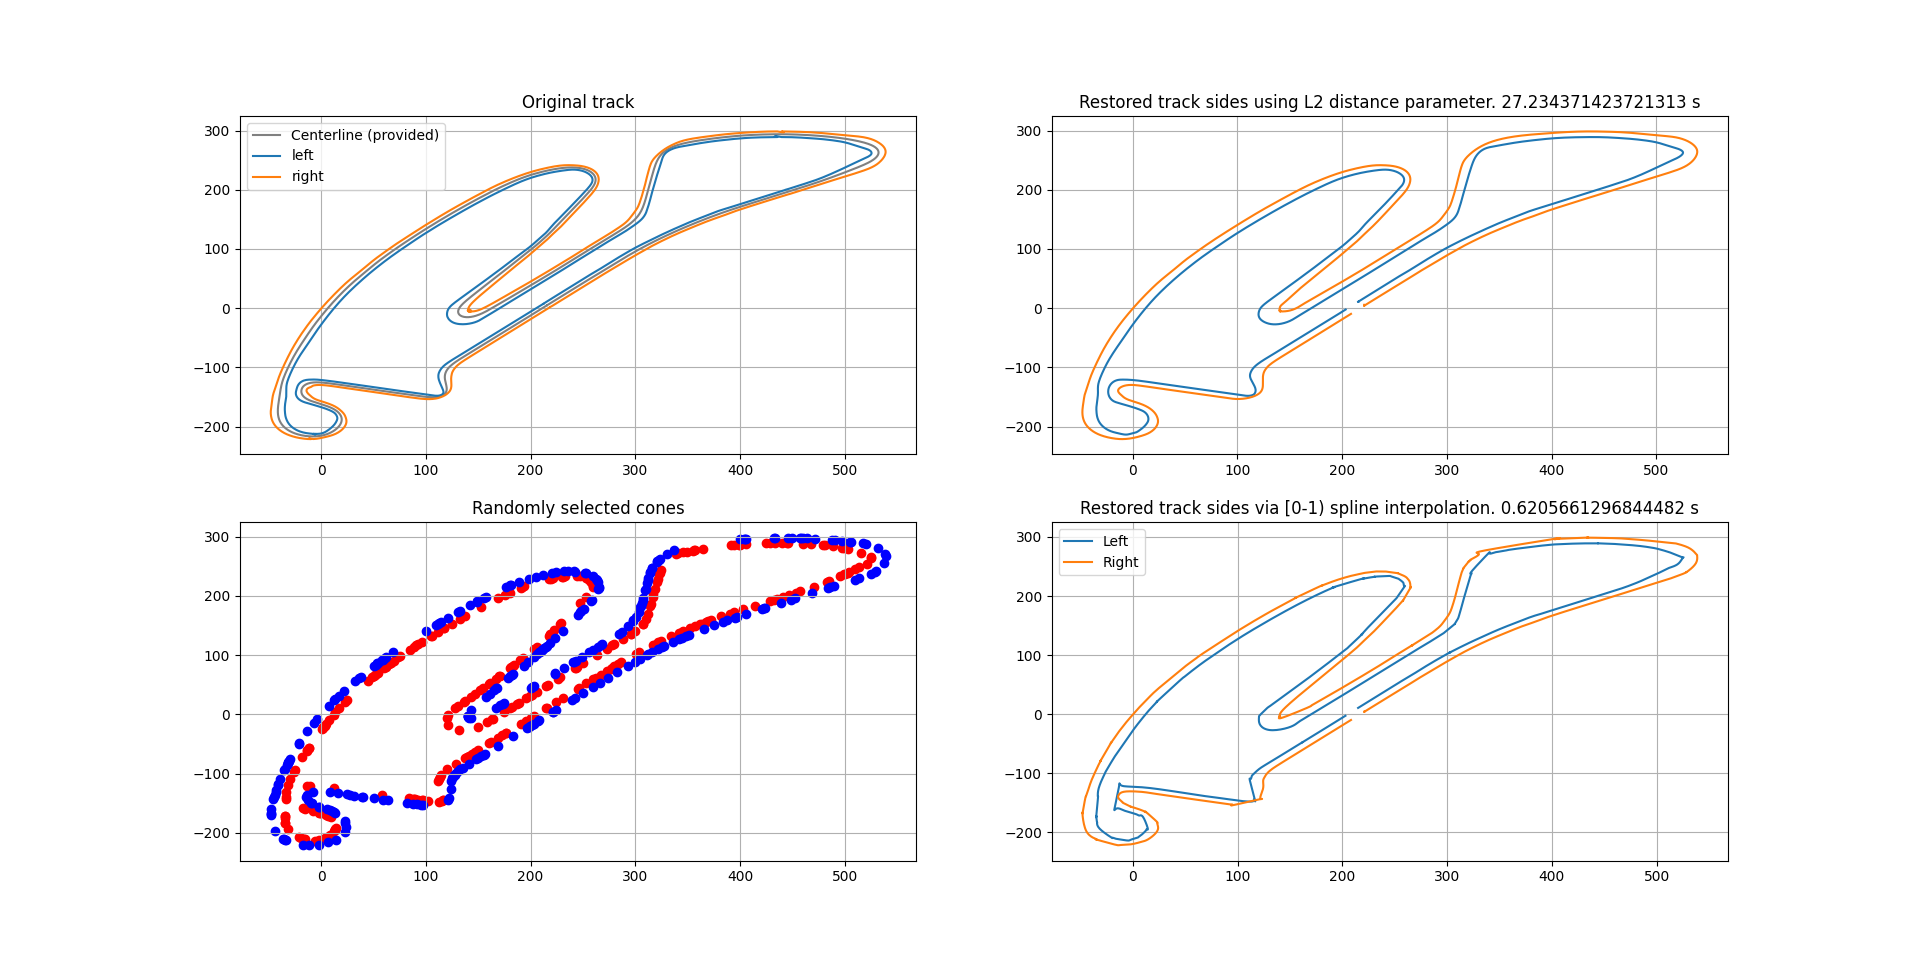
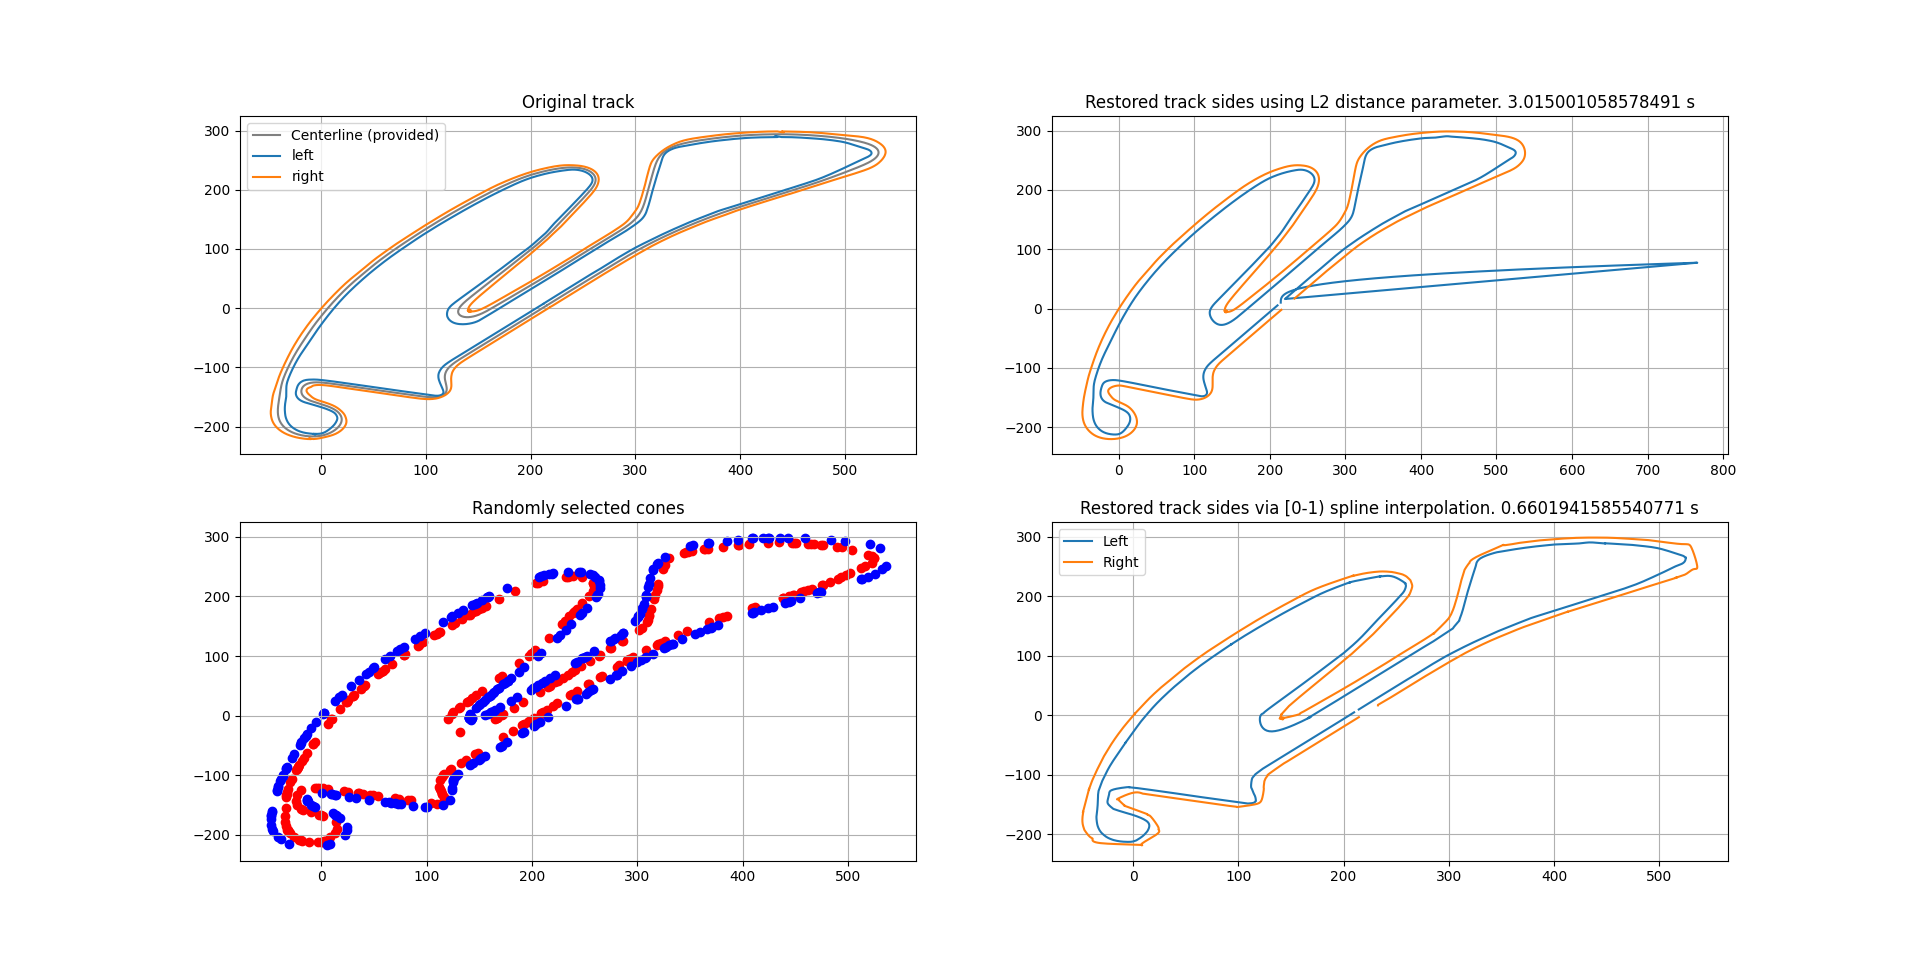
Improved the spline algorithm

diff --git a/Eval/generate_track.py b/Eval/generate_track.py
@@ -1,0 +1,79 @@
+import numpy as np
+import pandas as pd
+"""
+Returns a tuple of x_left, y_left, x_right, y_right cone coordinates
+"""
+
+def generate():
+    from os import getcwd
+    df = pd.read_csv(getcwd() + '/Eval/tracks/berlin_2018.csv')
+
+    x_middle = df['x_m'].to_numpy()
+    y_middle = df['y_m'].to_numpy()
+
+    assert(len(x_middle) == len(y_middle))
+
+    # generate random cones positions
+
+    # load track widths
+    right_offset = df['w_tr_right_m'].to_numpy()
+    left_offset = df['w_tr_left_m'].to_numpy()
+
+    x_left = np.empty(*x_middle.shape)
+    y_left = np.empty(*x_left.shape)
+    x_right = np.empty(*x_left.shape)
+    y_right = np.empty(*x_left.shape)
+
+    #calculate tangent vector for each point
+
+    for index in range(len(x_middle)):
+        #approximate_track_length_difference = math.sqrt((x_middle[index] - x_middle[index - 1])**2 + \
+        #    (y_middle[index] - y_middle[index - 1])**2) + math.sqrt((x_middle[(index + 1) % len(x_middle)] - \
+        #    x_middle[index])**2 + (y_middle[(index + 1) % len(x_middle)] - y_middle[index])**2)
+
+        derivative = (y_middle[(index + 1) % len(y_middle)] - y_middle[index]) / (x_middle[(index + 1) % len(x_middle)] - x_middle[index])
+        
+        if derivative != 0:
+            parallel_slope = (-1) / derivative
+        else:
+            parallel_slope = 1
+        # find a point that is right_offset away, whoose slope is parallel_slope
+
+        # from delta y / delta x = parallel slope
+        from math import sqrt
+        delta_X = sqrt((left_offset[index])**2 / (1 + parallel_slope**2))
+        x_left[index] = x_middle[index] - delta_X
+        y_left[index] = y_middle[index] - delta_X * parallel_slope
+
+        delta_X = sqrt((right_offset[index])**2 / (1 + parallel_slope**2))
+        x_right[index] = x_middle[index] + delta_X
+        y_right[index] = y_middle[index] + delta_X * parallel_slope
+
+        # fix switched sides
+
+        tangent_vector = np.array([x_middle[(index + 1) % len(x_middle)] - x_middle[index], (y_middle[(index + 1) % len(x_middle)] - y_middle[index])])
+        right_vector = np.array([x_right[index] - x_middle[index], y_right[index] - y_middle[index]])
+
+        cross = np.cross(right_vector, tangent_vector)
+
+        if (cross < 0):     # cross product negative, points must be switched
+            x_left[index], x_right[index] = x_right[index], x_left[index]
+            y_left[index], y_right[index] = y_right[index], y_left[index] 
+
+    # Collect random cones
+
+    from random import sample
+
+    indexes = [i for i in range(len(x_left))]
+    random_indexes_left = sample(indexes, 300)   # pick random 300 elements, retaining the order
+    random_indexes_right = sample(indexes, 300)
+
+    random_indexes_left.sort()
+    random_indexes_right.sort()
+
+    cones_left_x = x_left[random_indexes_left]
+    cones_left_y = y_left[random_indexes_left]
+    cones_right_x = x_right[random_indexes_right]
+    cones_right_y = y_right[random_indexes_right]
+
+    return cones_left_x, cones_left_y, cones_right_x, cones_right_y

diff --git a/Eval/splines.py b/Eval/splines.py
@@ -65,27 +65,32 @@ class CubicSpline:
 
         delta_x = arg - self.x[index]
 
-        #assert(delta_x >= 0)
+        assert(delta_x >= 0)
 
         return (self.a[index] + self.b[index] * delta_x + self.c[index] * delta_x ** 2 + self.d[index] * delta_x ** 3)
+    
+    def get_range(self, arg_array):
+        spline_index = [i for i, v in enumerate(self.x) if v > arg_array[0]][0] - 1
+
+        if spline_index < 0:
+            spline_index = 0
+
+        result = np.zeros(*arg_array.shape)
+
+        for index, value in enumerate(arg_array):
+            if value > self.x[spline_index + 1]:
+                spline_index += 1
+                assert(spline_index < len(self.b))
+
+            ref_x = self.x[spline_index]
+            delta_x = value - ref_x
+            assert(delta_x >= 0)
+            result[index] = (self.a[spline_index] + self.b[spline_index] * delta_x + \
+                self.c[spline_index] * delta_x ** 2 + self.d[spline_index] * delta_x ** 3)
+
+        return result
 
 if __name__ == '__main__':
-    # x = np.arange(0, 15, 0.7)
-    # y = np.random.randn(*x.shape) * 10
-
-    # spline = CubicSpline(x.tolist(), y.tolist())
-
-    # xNew = np.arange(0, 13.99, 0.01)
-    # spline_values = np.empty(*xNew.shape)
-
-    # for index, item in enumerate(xNew):
-    #     spline_values[index] = spline.get(item)
-
-    # plt.scatter(x, y)
-    # plt.plot(xNew, spline_values)
-
-    # plt.show()
-
     #generate x with random increments
 
     increments = np.random.rand(30)
@@ -108,5 +113,8 @@ if __name__ == '__main__':
     for index, item in enumerate(xNew):
         spline_values[index] = spline.get(item)
 
+    spline_val = spline.get_range(xNew)
+
     plt.plot(xNew, spline_values)
+    plt.plot(xNew, spline_val)
     plt.show()

diff --git a/Eval/spline_algorithms.py b/Eval/spline_algorithms.py
@@ -134,8 +134,11 @@ axis[1, 1].grid()
 
 t1 = time.time()
 
-left_param = np.zeros(*cones_left_x.shape)
-right_param = np.zeros(*cones_right_x.shape)
+left_param = np.empty(*cones_left_x.shape)
+right_param = np.empty(*cones_right_x.shape)
+
+left_param[0] = 0
+right_param[0] = 0
 
 for index in range(1, len(left_param)):
     left_param[index] = left_param[index - 1]
@@ -152,13 +155,15 @@ right_y_spline = splines.CubicSpline(right_param, cones_right_y)
 left_x_spline = splines.CubicSpline(left_param, cones_left_x)
 left_y_spline = splines.CubicSpline(left_param, cones_left_y)
 
-t_plot_left = np.arange(0, max(left_param), 0.01)
-t_plot_right = np.arange(0, max(right_param), 0.01)
+t_plot_left = np.arange(0, max(left_param), 0.1)
+t_plot_right = np.arange(0, max(right_param), 0.1)
 
 restored_x_left = np.empty(*t_plot_left.shape)
 restored_y_left = np.empty(*t_plot_left.shape)
 restored_x_right = np.empty(*t_plot_right.shape)
 restored_y_right = np.empty(*t_plot_right.shape)
+
+t5 = time.time()
 
 for index, value in enumerate(t_plot_left):
     restored_x_left[index] = left_x_spline.get(value)
@@ -167,6 +172,8 @@ for index, value in enumerate(t_plot_left):
 for index, value in enumerate(t_plot_right):
     restored_x_right[index] = right_x_spline.get(value)
     restored_y_right[index] = right_y_spline.get(value)
+
+print(f'Restoring the values cost {time.time() - t5} s')
 
 t2 = time.time()
 

diff --git a/README.md b/README.md
@@ -10,7 +10,7 @@ An optimal path spline (*exact representation tbd*).
 
 ### Current progress
 
-![Current progress](Docs/images/current_progress.png)
+![Current progress](Docs/Images/current_progress.png)
 
 ### Spline algorithm used
 
